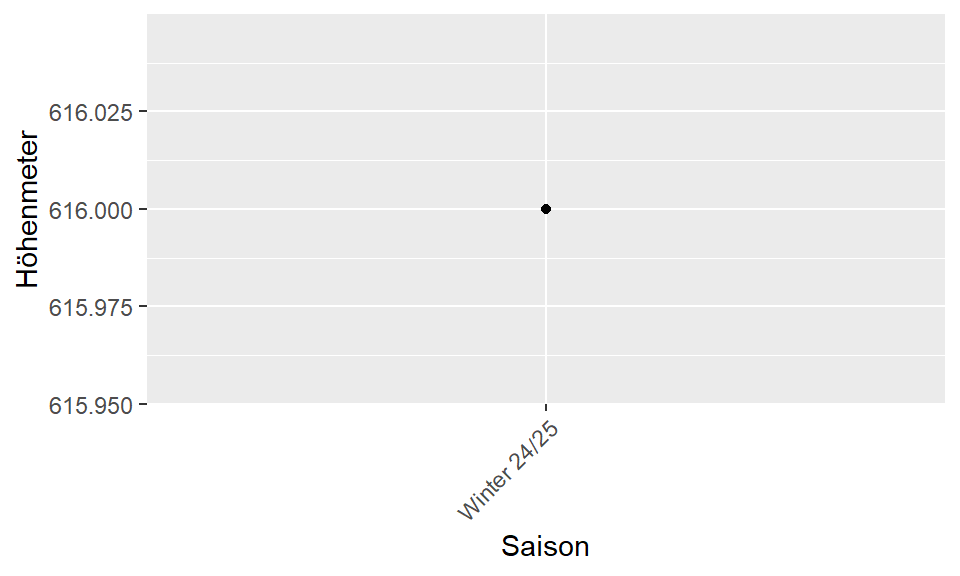
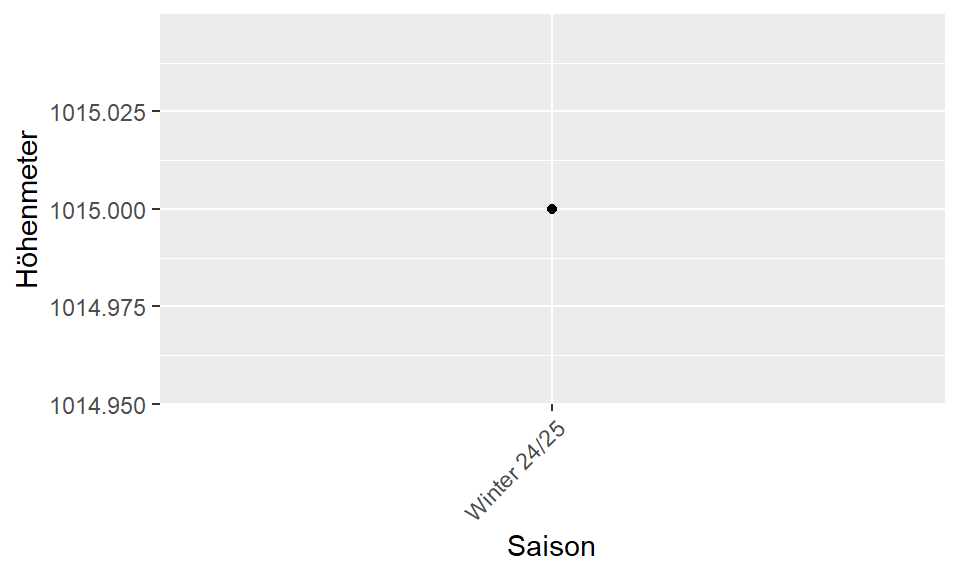
update

diff --git a/docs/langlauf.html b/docs/langlauf.html
@@ -7,7 +7,7 @@
 <meta name="viewport" content="width=device-width, initial-scale=1.0, user-scalable=yes">
 
 <meta name="author" content="Kaspar Rufibach">
-<meta name="dcterms.date" content="2025-01-31">
+<meta name="dcterms.date" content="2025-02-06">
 
 <title>Sport Kaspar - Langlauf</title>
 <style>
@@ -160,7 +160,7 @@ ul.task-list li input[type="checkbox"] {
   <li><a href="#skischuh" id="toc-skischuh" class="nav-link" data-scroll-target="#skischuh">Skischuh</a></li>
   <li><a href="#touren-nach-ziel" id="toc-touren-nach-ziel" class="nav-link" data-scroll-target="#touren-nach-ziel">Touren nach Ziel</a>
   <ul class="collapse">
-  <li><a href="#gadmen-na-234-hm" id="toc-gadmen-na-234-hm" class="nav-link" data-scroll-target="#gadmen-na-234-hm">Gadmen –&gt; NA (234 Hm)</a></li>
+  <li><a href="#gadmen-na-399-hm" id="toc-gadmen-na-399-hm" class="nav-link" data-scroll-target="#gadmen-na-399-hm">Gadmen –&gt; NA (399 Hm)</a></li>
   </ul></li>
   </ul>
 </nav>
@@ -194,7 +194,7 @@ ul.task-list li input[type="checkbox"] {
     <div>
     <div class="quarto-title-meta-heading">Published</div>
     <div class="quarto-title-meta-contents">
-      <p class="date">January 31, 2025</p>
+      <p class="date">February 6, 2025</p>
     </div>
   </div>
   
@@ -240,10 +240,10 @@ ul.task-list li input[type="checkbox"] {
 <h1 class="tabset tabset-fade tabset-pills">Aktuelle Saison</h1>
 <section id="tage-auf-langlauf-ski-total" class="level2">
 <h2 class="anchored" data-anchor-id="tage-auf-langlauf-ski-total">Tage auf Langlauf-Ski total</h2>
-<p>Total Langlauftage: 2.</p>
+<p>Total Langlauftage: 3.</p>
 <ul>
-<li>Anzahl Tourentage: 2.</li>
-<li>Total Hoehenmeter: 616.</li>
+<li>Anzahl Tourentage: 3.</li>
+<li>Total Hoehenmeter: 1015.</li>
 </ul>
 </section>
 <section id="nach-datum" class="level2">
@@ -281,6 +281,13 @@ ul.task-list li input[type="checkbox"] {
 <td style="text-align: center;">234</td>
 <td style="text-align: center;">14.27</td>
 </tr>
+<tr class="odd">
+<td style="text-align: center;">Gadmen</td>
+<td style="text-align: center;"></td>
+<td style="text-align: center;">2025-02-05</td>
+<td style="text-align: center;">399</td>
+<td style="text-align: center;">20.31</td>
+</tr>
 </tbody>
 </table>
 </div>
@@ -307,16 +314,16 @@ ul.task-list li input[type="checkbox"] {
 <tr class="odd">
 <td>Winter 24/25</td>
 <td style="text-align: right;"></td>
-<td style="text-align: right;">1 (50.0%)</td>
-<td style="text-align: right;">1 (50.0%)</td>
-<td style="text-align: right;">2 (100.0%)</td>
+<td style="text-align: right;">1 (33.3%)</td>
+<td style="text-align: right;">2 (66.7%)</td>
+<td style="text-align: right;">3 (100.0%)</td>
 </tr>
 <tr class="even">
 <td>Total</td>
 <td style="text-align: right;"></td>
-<td style="text-align: right;">1 (50.0%)</td>
-<td style="text-align: right;">1 (50.0%)</td>
-<td style="text-align: right;">2 (100.0%)</td>
+<td style="text-align: right;">1 (33.3%)</td>
+<td style="text-align: right;">2 (66.7%)</td>
+<td style="text-align: right;">3 (100.0%)</td>
 </tr>
 </tbody>
 </table>
@@ -335,7 +342,7 @@ ul.task-list li input[type="checkbox"] {
 </tr>
 <tr class="even">
 <td style="text-align: left;">Rossignol</td>
-<td style="text-align: right;">234</td>
+<td style="text-align: right;">633</td>
 </tr>
 </tbody>
 </table>
@@ -362,16 +369,16 @@ ul.task-list li input[type="checkbox"] {
 <tr class="odd">
 <td>Winter 24/25</td>
 <td style="text-align: right;"></td>
-<td style="text-align: right;">1 (50.0%)</td>
-<td style="text-align: right;">1 (50.0%)</td>
-<td style="text-align: right;">2 (100.0%)</td>
+<td style="text-align: right;">2 (66.7%)</td>
+<td style="text-align: right;">1 (33.3%)</td>
+<td style="text-align: right;">3 (100.0%)</td>
 </tr>
 <tr class="even">
 <td>Total</td>
 <td style="text-align: right;"></td>
-<td style="text-align: right;">1 (50.0%)</td>
-<td style="text-align: right;">1 (50.0%)</td>
-<td style="text-align: right;">2 (100.0%)</td>
+<td style="text-align: right;">2 (66.7%)</td>
+<td style="text-align: right;">1 (33.3%)</td>
+<td style="text-align: right;">3 (100.0%)</td>
 </tr>
 </tbody>
 </table>
@@ -386,7 +393,7 @@ ul.task-list li input[type="checkbox"] {
 <tbody>
 <tr class="odd">
 <td style="text-align: left;">Fischer</td>
-<td style="text-align: right;">234</td>
+<td style="text-align: right;">633</td>
 </tr>
 <tr class="even">
 <td style="text-align: left;">Miete</td>
@@ -399,8 +406,8 @@ ul.task-list li input[type="checkbox"] {
 <section id="touren-nach-ziel" class="level1">
 <h1>Touren nach Ziel</h1>
 <p>Dieser Abschnitt listet die Touren auf, chronologisch oder nach Laufzeit. Fuer die Listen nach Zeit werden die Touren ohne Zeitangabe nicht aufgefuehrt.</p>
-<section id="gadmen-na-234-hm" class="level2">
-<h2 class="anchored" data-anchor-id="gadmen-na-234-hm">Gadmen –&gt; NA (234 Hm)</h2>
+<section id="gadmen-na-399-hm" class="level2">
+<h2 class="anchored" data-anchor-id="gadmen-na-399-hm">Gadmen –&gt; NA (399 Hm)</h2>
 <div class="tabset-margin-container"></div><div class="panel-tabset nav-pills">
 <ul class="nav nav-tabs" role="tablist"><li class="nav-item" role="presentation"><a class="nav-link active" id="tabset-1-1-tab" data-bs-toggle="tab" data-bs-target="#tabset-1-1" role="tab" aria-controls="tabset-1-1" aria-selected="true">Chronologisch</a></li><li class="nav-item" role="presentation"><a class="nav-link" id="tabset-1-2-tab" data-bs-toggle="tab" data-bs-target="#tabset-1-2" role="tab" aria-controls="tabset-1-2" aria-selected="false">Nach Zeit</a></li></ul>
 <div class="tab-content nav-pills">
@@ -427,11 +434,18 @@ ul.task-list li input[type="checkbox"] {
 <tr class="odd">
 <td style="text-align: center;">Gadmen</td>
 <td style="text-align: center;"></td>
-<td style="text-align: center;">2025-01-21</td>
+<td style="text-align: center;">2025-02-05</td>
 <td style="text-align: center;"></td>
 <td style="text-align: center;">NA</td>
 </tr>
 <tr class="even">
+<td style="text-align: center;">Gadmen</td>
+<td style="text-align: center;"></td>
+<td style="text-align: center;">2025-01-21</td>
+<td style="text-align: center;"></td>
+<td style="text-align: center;">NA</td>
+</tr>
+<tr class="odd">
 <td style="text-align: center;">Gadmen</td>
 <td style="text-align: center;"></td>
 <td style="text-align: center;">2025-01-20</td>

diff --git a/docs/zusammenfassungen.html b/docs/zusammenfassungen.html
@@ -7,7 +7,7 @@
 <meta name="viewport" content="width=device-width, initial-scale=1.0, user-scalable=yes">
 
 <meta name="author" content="Kaspar Rufibach">
-<meta name="dcterms.date" content="2025-01-31">
+<meta name="dcterms.date" content="2025-02-06">
 
 <title>Sport Kaspar - Zusammenfassungen Sport</title>
 <style>
@@ -184,7 +184,7 @@ ul.task-list li input[type="checkbox"] {
     <div>
     <div class="quarto-title-meta-heading">Published</div>
     <div class="quarto-title-meta-contents">
-      <p class="date">January 31, 2025</p>
+      <p class="date">February 6, 2025</p>
     </div>
   </div>
   
@@ -194,7 +194,7 @@ ul.task-list li input[type="checkbox"] {
 
 </header>
 
-<!-- Numbers labelled 2024 are linearly extrapolated from 2025-01-31 to the full year of 2023. -->
+<!-- Numbers labelled 2024 are linearly extrapolated from 2025-02-06 to the full year of 2023. -->
 <section id="jaehrliche-zusammenfassungen" class="level1">
 <h1>Jaehrliche Zusammenfassungen</h1>
 <div class="tabset-margin-container"></div><div class="panel-tabset nav-pills">

diff --git a/docs/skitouren.html b/docs/skitouren.html
@@ -7,7 +7,7 @@
 <meta name="viewport" content="width=device-width, initial-scale=1.0, user-scalable=yes">
 
 <meta name="author" content="Kaspar Rufibach">
-<meta name="dcterms.date" content="2025-02-04">
+<meta name="dcterms.date" content="2025-02-06">
 
 <title>Sport Kaspar - Skitouren</title>
 <style>
@@ -261,7 +261,7 @@ ul.task-list li input[type="checkbox"] {
     <div>
     <div class="quarto-title-meta-heading">Published</div>
     <div class="quarto-title-meta-contents">
-      <p class="date">February 4, 2025</p>
+      <p class="date">February 6, 2025</p>
     </div>
   </div>
   
@@ -413,7 +413,7 @@ ul.task-list li input[type="checkbox"] {
 <h1 class="tabset tabset-fade tabset-pills">Aktuelle Saison</h1>
 <section id="tage-auf-ski-total" class="level2">
 <h2 class="anchored" data-anchor-id="tage-auf-ski-total">Tage auf Ski total</h2>
-<p>Total Skitage: 29.</p>
+<p>Total Skitage: 30.</p>
 <ul>
 <li>Anzahl Tourentage: 17.</li>
 <li>Total Hoehenmeter: 18224.</li>

diff --git a/docs/kieser.html b/docs/kieser.html
@@ -7,7 +7,7 @@
 <meta name="viewport" content="width=device-width, initial-scale=1.0, user-scalable=yes">
 
 <meta name="author" content="Kaspar Rufibach">
-<meta name="dcterms.date" content="2025-01-31">
+<meta name="dcterms.date" content="2025-02-06">
 
 <title>Sport Kaspar - Kieser Training</title>
 <style>
@@ -184,7 +184,7 @@ ul.task-list li input[type="checkbox"] {
     <div>
     <div class="quarto-title-meta-heading">Published</div>
     <div class="quarto-title-meta-contents">
-      <p class="date">January 31, 2025</p>
+      <p class="date">February 6, 2025</p>
     </div>
   </div>
   

diff --git a/docs/bikerun.html b/docs/bikerun.html
@@ -7,7 +7,7 @@
 <meta name="viewport" content="width=device-width, initial-scale=1.0, user-scalable=yes">
 
 <meta name="author" content="Kaspar Rufibach">
-<meta name="dcterms.date" content="2025-01-31">
+<meta name="dcterms.date" content="2025-02-06">
 
 <title>Sport Kaspar - Bike and run</title>
 <style>
@@ -191,7 +191,7 @@ ul.task-list li input[type="checkbox"] {
     <div>
     <div class="quarto-title-meta-heading">Published</div>
     <div class="quarto-title-meta-contents">
-      <p class="date">January 31, 2025</p>
+      <p class="date">February 6, 2025</p>
     </div>
   </div>
   

diff --git a/docs/wettkaempfe.html b/docs/wettkaempfe.html
@@ -7,7 +7,7 @@
 <meta name="viewport" content="width=device-width, initial-scale=1.0, user-scalable=yes">
 
 <meta name="author" content="Kaspar Rufibach">
-<meta name="dcterms.date" content="2025-01-31">
+<meta name="dcterms.date" content="2025-02-06">
 
 <title>Sport Kaspar - Wettkaempfe</title>
 <style>
@@ -205,7 +205,7 @@ ul.task-list li input[type="checkbox"] {
     <div>
     <div class="quarto-title-meta-heading">Published</div>
     <div class="quarto-title-meta-contents">
-      <p class="date">January 31, 2025</p>
+      <p class="date">February 6, 2025</p>
     </div>
   </div>
   

diff --git a/docs/bike.html b/docs/bike.html
@@ -7,7 +7,7 @@
 <meta name="viewport" content="width=device-width, initial-scale=1.0, user-scalable=yes">
 
 <meta name="author" content="Kaspar Rufibach">
-<meta name="dcterms.date" content="2025-01-31">
+<meta name="dcterms.date" content="2025-02-06">
 
 <title>Sport Kaspar - Bike</title>
 <style>
@@ -294,7 +294,7 @@ ul.task-list li input[type="checkbox"] {
     <div>
     <div class="quarto-title-meta-heading">Published</div>
     <div class="quarto-title-meta-contents">
-      <p class="date">January 31, 2025</p>
+      <p class="date">February 6, 2025</p>
     </div>
   </div>
   

diff --git a/docs/hike.html b/docs/hike.html
@@ -7,7 +7,7 @@
 <meta name="viewport" content="width=device-width, initial-scale=1.0, user-scalable=yes">
 
 <meta name="author" content="Kaspar Rufibach">
-<meta name="dcterms.date" content="2025-01-31">
+<meta name="dcterms.date" content="2025-02-06">
 
 <title>Sport Kaspar - Hike</title>
 <style>
@@ -248,7 +248,7 @@ ul.task-list li input[type="checkbox"] {
     <div>
     <div class="quarto-title-meta-heading">Published</div>
     <div class="quarto-title-meta-contents">
-      <p class="date">January 31, 2025</p>
+      <p class="date">February 6, 2025</p>
     </div>
   </div>
   

diff --git a/docs/run.html b/docs/run.html
@@ -7,7 +7,7 @@
 <meta name="viewport" content="width=device-width, initial-scale=1.0, user-scalable=yes">
 
 <meta name="author" content="Kaspar Rufibach">
-<meta name="dcterms.date" content="2025-01-31">
+<meta name="dcterms.date" content="2025-02-06">
 
 <title>Sport Kaspar - Run</title>
 <style>
@@ -269,7 +269,7 @@ ul.task-list li input[type="checkbox"] {
     <div>
     <div class="quarto-title-meta-heading">Published</div>
     <div class="quarto-title-meta-contents">
-      <p class="date">January 31, 2025</p>
+      <p class="date">February 6, 2025</p>
     </div>
   </div>
   
